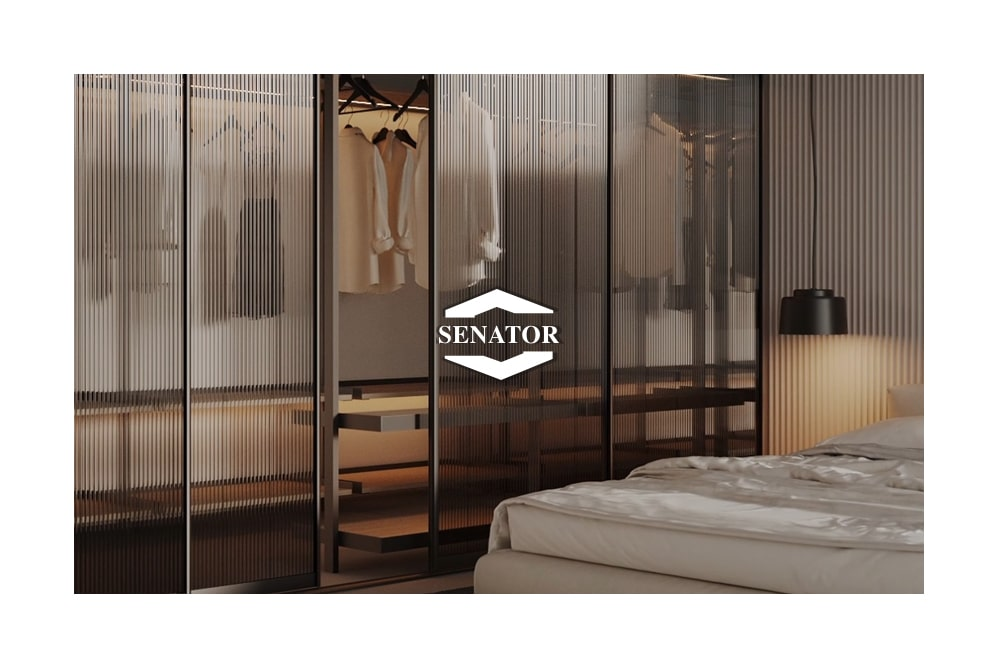
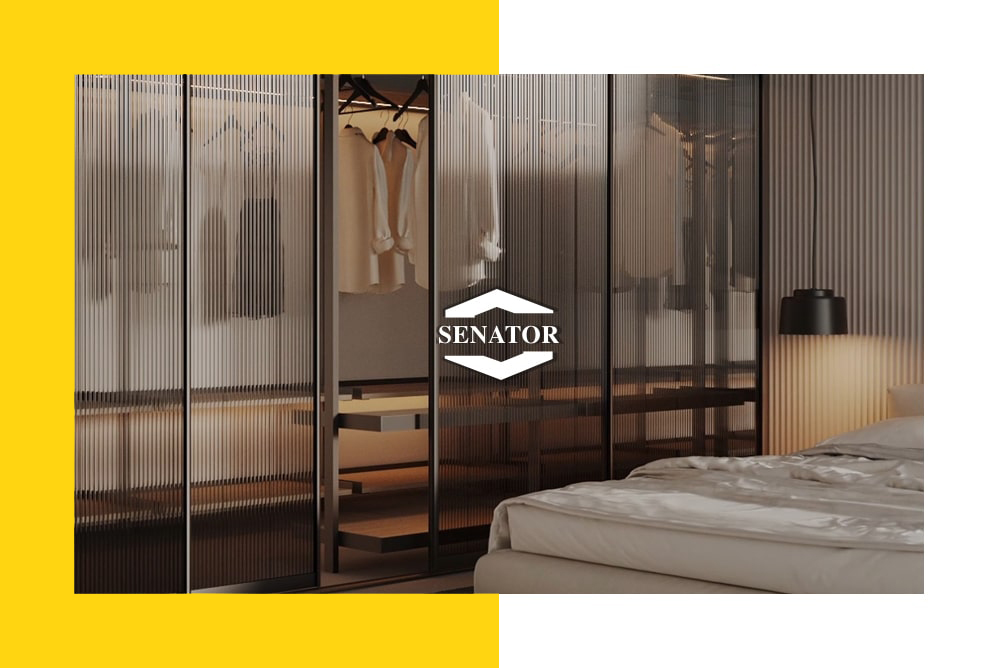
Mainpage

Changed region(s): [[0.0, 0.0, 0.497, 1.0]]

diff --git a/src/scss/pages/mainpage.scss b/src/scss/pages/mainpage.scss
@@ -3,6 +3,7 @@
     @include media-breakpoint-up(lg) {
         min-height: 100vh;
     }
+
     background-position: center;
     background-repeat: no-repeat;
     background-size: cover;
@@ -12,11 +13,10 @@
         position: absolute;
         width: 100%;
         height: 100%;
-        background-color: #121212;
-        opacity: 0.86;
-        mix-blend-mode: darken;
-        transition: background 0.3s, border-radius 0.3s, opacity 0.3s;
+        background-image: url('http://localhost:81/wordpress/wp-content/uploads/2024/12/Noise-background.jpg');
+        background-repeat: repeat;
         content: '';
+        z-index: -1;
     }
 }
 
@@ -74,12 +74,14 @@
         display: inline-block;
         line-height: 1.3;
     }
+
     .wpcf7-not-valid-tip {
         color: $orange;
         font-size: 13px;
         font-weight: normal;
         display: block;
     }
+
     .wpcf7-submit {
         border: none;
         background-color: $orange;
@@ -87,9 +89,10 @@
         padding: 0.475rem 0.75rem;
         border-radius: 0;
     }
-    .wpcf7 form.invalid .wpcf7-response-output, 
-    .wpcf7 form.sent .wpcf7-response-output, 
-    .wpcf7 form.unaccepted .wpcf7-response-output, 
+
+    .wpcf7 form.invalid .wpcf7-response-output,
+    .wpcf7 form.sent .wpcf7-response-output,
+    .wpcf7 form.unaccepted .wpcf7-response-output,
     .wpcf7 form.payment-required .wpcf7-response-output {
         text-align: center;
         color: #fff;
@@ -117,7 +120,7 @@
     }
 
     &--icon {
-        height: 85px!important;
+        height: 85px !important;
         position: absolute;
         right: 50px;
         z-index: -1;

diff --git a/src/scss/theme/global.scss b/src/scss/theme/global.scss
@@ -1,17 +1,17 @@
 // Top Menu
-.home #top-header {
-    @include media-breakpoint-up(xl) {
-        background-color: rgba(0, 0, 0, .2);
+// .home #top-header {
+//     @include media-breakpoint-up(xl) {
+//         background-color: rgba(0, 0, 0, .2);
 
-        .top-header-menu {
-            border-bottom: 1px solid rgba(255, 255, 255, .1);
-        }
-    }
-}
+//         .top-header-menu {
+//             border-bottom: 1px solid rgba(255, 255, 255, .1);
+//         }
+//     }
+// }
 
-#top-header {
-    background-color: #232323;
-}
+// #top-header {
+//     background-color: #232323;
+// }
 
 
 @include media-breakpoint-down(md) {
@@ -58,7 +58,7 @@
             .navbar-brand {
                 &.top-logo {
                     img {
-                        width: 165px;
+                        width: 75px;
                     }
                 }
             }
@@ -91,7 +91,7 @@
             transition: 0.3s ease-in-out;
 
             @include media-breakpoint-up(xl) {
-                width: 165px;
+                width: 75px;
             }
         }
 
@@ -115,7 +115,7 @@
     .navbar-nav {
         >li {
             >a {
-                color: #fff;
+                color: #000;
                 text-transform: uppercase;
                 z-index: 0;
 
@@ -511,12 +511,6 @@
         margin: 0 0 0 20px;
         text-decoration: none !important;
     }
-}
-
-//Top Toolbar
-.toolbar-area {
-    // border-bottom: 1px solid rgba(0, 0, 0, 0.1);
-    background-color: #000;
 }
 
 .contact-info {

diff --git a/style.css b/style.css
@@ -2,8 +2,8 @@
 Theme Name: Senator WP Bootstrap
 Text Domain: senator-wp-theme
 Version: 1.0
-Description: senator
-Tags: Senator Bootstrap Starter
+Description: Producent systemów drzwi przesuwnych i szaf garderobianych
+Tags: Jesteśmy głównym producentem i dumnym właścicielem marki Senator – lidera w branży systemów drzwi przesuwnych i szaf garderobianych.
 Author: HO
 Author URI: http://www.tomedia.pl
 */

diff --git a/src/style.scss b/src/style.scss
@@ -1,6 +1,3 @@
-// MY VARIABLES BREAKPOINTS
-//@import "theme/variable-breakpoints.scss";
-
 // LOAD BOOTSTRAP 5
 @import "~bootstrap/scss/bootstrap"; 
 
@@ -12,9 +9,6 @@
 
 // GLOBAL & THEME
 @import "./scss/theme/global.scss";
-
-// // OWL carousel
-// // @import 'owl.carousel/dist/assets/owl.carousel.css';
 
 // PAGE TEMPLATES
 @import './scss/pages/mainpage.scss';

diff --git a/src/scss/theme/variables.scss b/src/scss/theme/variables.scss
@@ -2,16 +2,16 @@
 // #Colors
 // ------------------------------------ //
 
-$orange: #f47729;
+$yellow: #fed510;
 
 // Definiowanie nazw jako stringów
 $names: (
-    "orange"
+    "yellow"
 );
 
 // Mapowanie nazw na kolory
 $colors: (
-    "orange": $orange
+    "yellow": $yellow
 );
 
 @each $name in $names {

diff --git a/template-parts/main-hero.php b/template-parts/main-hero.php
@@ -3,8 +3,28 @@ $hero_background_desktop = get_field('hero_background_desktop');
 $hero_background_mobile = get_field('hero_background_mobile');
 ?>
 
+<div id="hero" class="top-hero position-relative d-flex justify-content-center flex-column mx-lg-4 z-0">
+    <div class="container">
+        <div class="row align-items-center justify-content-center">
+            <div class="col-lg-3">
+                <img src="http://localhost:81/wordpress/wp-content/uploads/2025/01/Port-additional-img-1.jpg" id="slide-1" class="img-fluid" alt="">
+                <img src="http://localhost:81/wordpress/wp-content/uploads/2025/01/Port-additional-img-4.jpg" id="slide-2" class="img-fluid" alt="">
+                <img src="http://localhost:81/wordpress/wp-content/uploads/2025/01/Port-additional-img-6.jpg" id="slide-3" class="img-fluid" alt="">
+            </div>
+            <div class="col-lg-5">
+                <img src="http://localhost:81/wordpress/wp-content/uploads/2025/01/home-6-port-2.jpg" id="slide-4" class="img-fluid" alt="">
+                <img src="http://localhost:81/wordpress/wp-content/uploads/2025/01/home-6-port-5.jpg" id="slide-5" class="img-fluid" alt="">
+                <img src="http://localhost:81/wordpress/wp-content/uploads/2025/01/home-6-port-8.jpg" id="slide-6" class="img-fluid" alt="">
+            </div>
+            <div class="col-lg-3">
+                <img src="http://localhost:81/wordpress/wp-content/uploads/2025/01/Port-additional-img-2.jpg" id="slide-7" class="img-fluid" alt="">
+                <img src="http://localhost:81/wordpress/wp-content/uploads/2025/01/Port-additional-img-3.jpg" id="slide-8" class="img-fluid" alt="">
+                <img src="http://localhost:81/wordpress/wp-content/uploads/2025/01/Port-additional-img-5.jpg" id="slide-9" class="img-fluid" alt="">
+            </div>
+        </div>
+    </div>
 
-<div id="hero" class="top-hero position-relative d-flex justify-content-center flex-column">
+
     <!-- Hero Cnt -->
     <div class="container top-hero__cnt position-relative">
         <!-- Hero slider -->

diff --git a/header.php b/header.php
@@ -22,9 +22,9 @@
 </head>
 
 <body <?php body_class(); ?>>
-    <header id="top-header" class="fixed-lg-top" role="banner">
+    <header id="top-header" class="fixed-lg-top bg-white" role="banner">
         <!-- Top Toolbar -->
-        <div class="toolbar-area d-none d-lg-block px-xl-4">
+        <div class="toolbar-area d-none d-lg-block px-xl-4 bg-yellow">
             <?php if (is_active_sidebar('top-toolbar')) : ?>
                 <?php dynamic_sidebar('top-toolbar'); ?>
             <?php endif; ?>
@@ -35,7 +35,8 @@
                 <nav class="navbar navbar-expand-xl navbar-theme chakra-petch-font">
                     <?php if (get_theme_mod('senator_wp_theme_logo')) : ?>
                         <a href="<?php echo esc_url(home_url('/')); ?>" title="<?php echo esc_attr(get_bloginfo('name')); ?>" class="navbar-brand align-items-center top-logo flex-column">
-                            <img src="<?php echo esc_url(str_replace('http://', 'https://', get_theme_mod('senator_wp_theme_logo'))); ?>" alt="<?php echo esc_attr(get_bloginfo('name')); ?>">
+                            <!-- <img src="<?php echo esc_url(str_replace('http://', 'https://', get_theme_mod('senator_wp_theme_logo'))); ?>" alt="<?php echo esc_attr(get_bloginfo('name')); ?>"> -->
+                            <img src="<?php echo esc_url(get_theme_mod('senator_wp_theme_logo')); ?>" alt="<?php echo esc_attr(get_bloginfo('name')); ?>">
                         </a>
                     <?php endif; ?>
                     <button class="navbar-toggler navbar-dark rounded-0" type="button" data-bs-toggle="collapse" data-bs-target="#main-menu" aria-controls="main-menu" aria-expanded="false" aria-label="Toggle navigation">

diff --git a/template-parts/main-products-slider.php b/template-parts/main-products-slider.php
@@ -1,0 +1,38 @@
+<!-- Slider with products -->
+<section class="py-4 main-products-slider">
+    <div class="swiper-container">
+        <div class="swiper-wrapper">
+            <?php
+            $query = new WP_Query(array('category_name' => 'system-drzwi-przesuwnych', 'posts_per_page' => 10));
+            if ($query->have_posts()) :
+                while ($query->have_posts()) : $query->the_post();
+            ?>
+                    <div class="swiper-slide">
+                        <a href="<?php echo esc_url(get_permalink()); ?>" class="text-decoration-none">
+                            <?php if (has_post_thumbnail()) : ?>
+                                <?php the_post_thumbnail('large', ['class' => 'img-fluid']); ?>
+                            <?php endif; ?>
+                            <h3><?php the_title(); ?></h3>
+                        </a>
+                    </div>
+            <?php endwhile;
+                wp_reset_postdata();
+            endif; ?>
+        </div>
+        <div class="swiper-button-next"></div>
+        <div class="swiper-button-prev"></div>
+    </div>
+
+    <script>
+        const swiper = new Swiper('.swiper-container', {
+            slidesPerView: 1,
+            spaceBetween: 10,
+            navigation: {
+                nextEl: '.swiper-button-next',
+                prevEl: '.swiper-button-prev',
+            },
+            loop: true,
+        });
+    </script>
+
+</section>

diff --git a/templates/mainpage.php b/templates/mainpage.php
@@ -10,11 +10,11 @@ get_header();
 <!-- Main hero -->
 <?php get_template_part('template-parts/main-hero'); ?>
 
-<!-- Main banner shop -->
-<?php get_template_part('template-parts/main-banner-shop'); ?>
+<!-- Main products slider -->
+<?php get_template_part('template-parts/main-products-slider'); ?>
 
-<!-- Main realizations -->
-<?php get_template_part('template-parts/main-realizations'); ?>
+<!-- Main about senator -->
+<?php get_template_part('template-parts/main-about'); ?>
 
 <?php
 while (have_posts()) : the_post();
